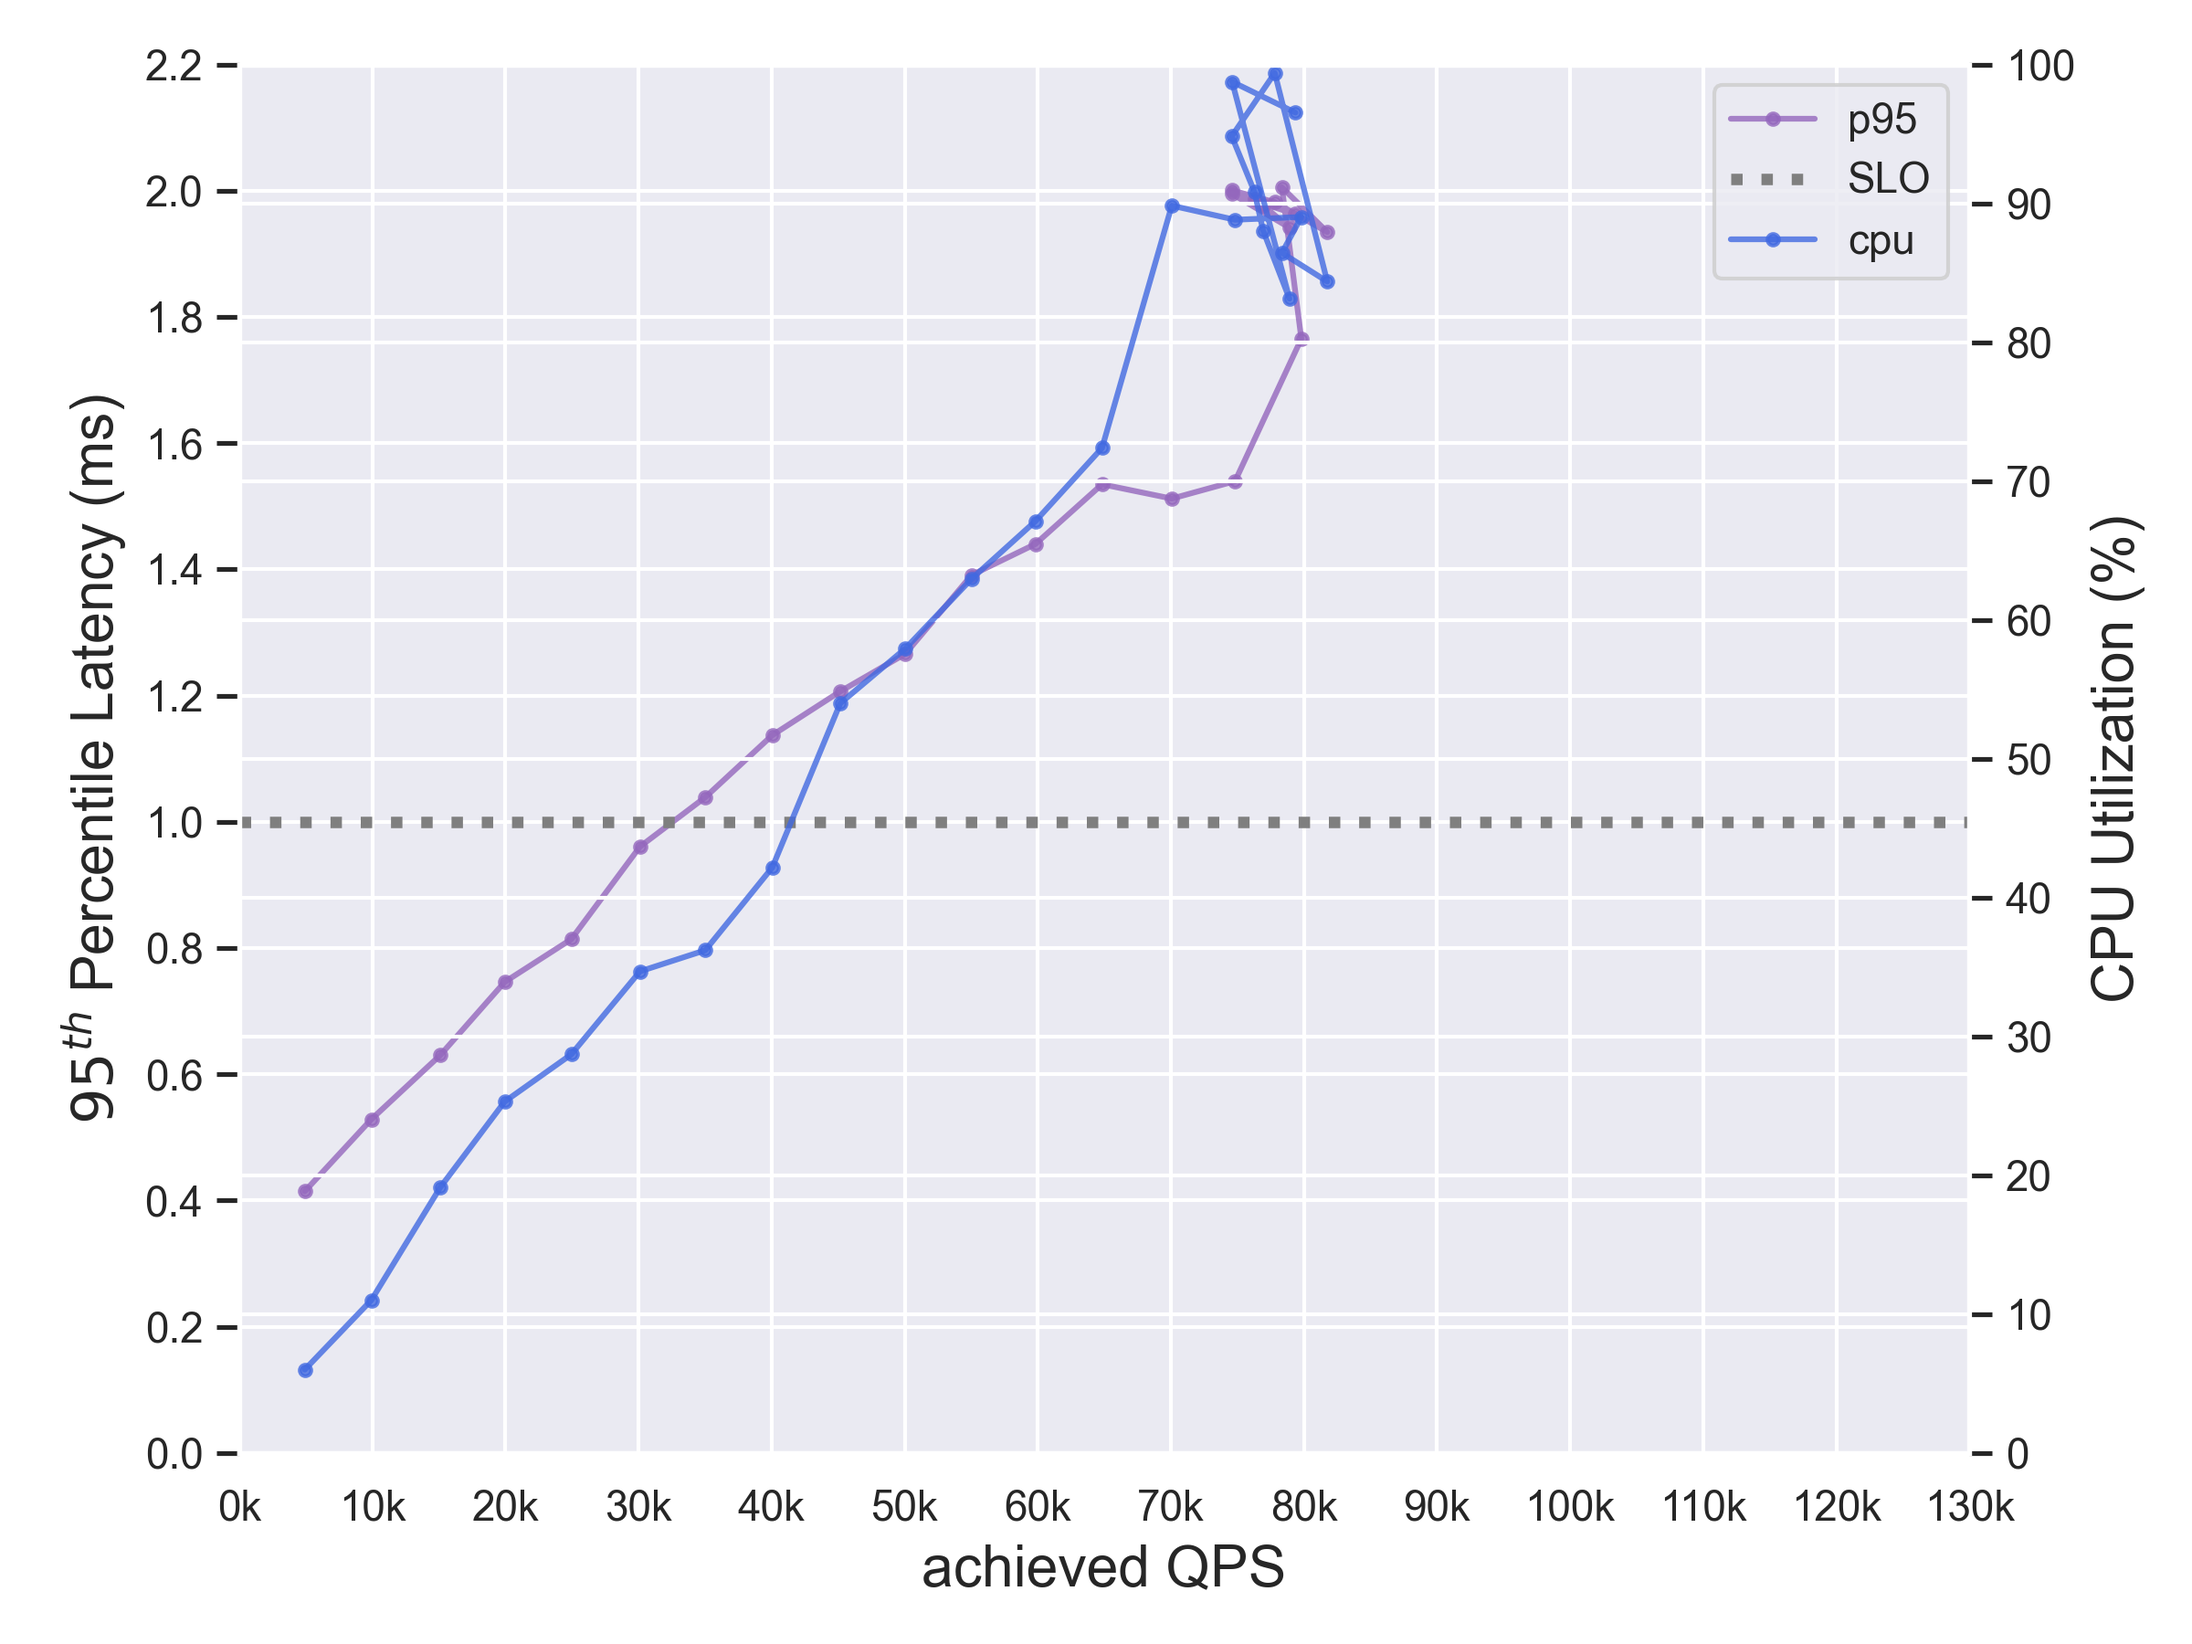
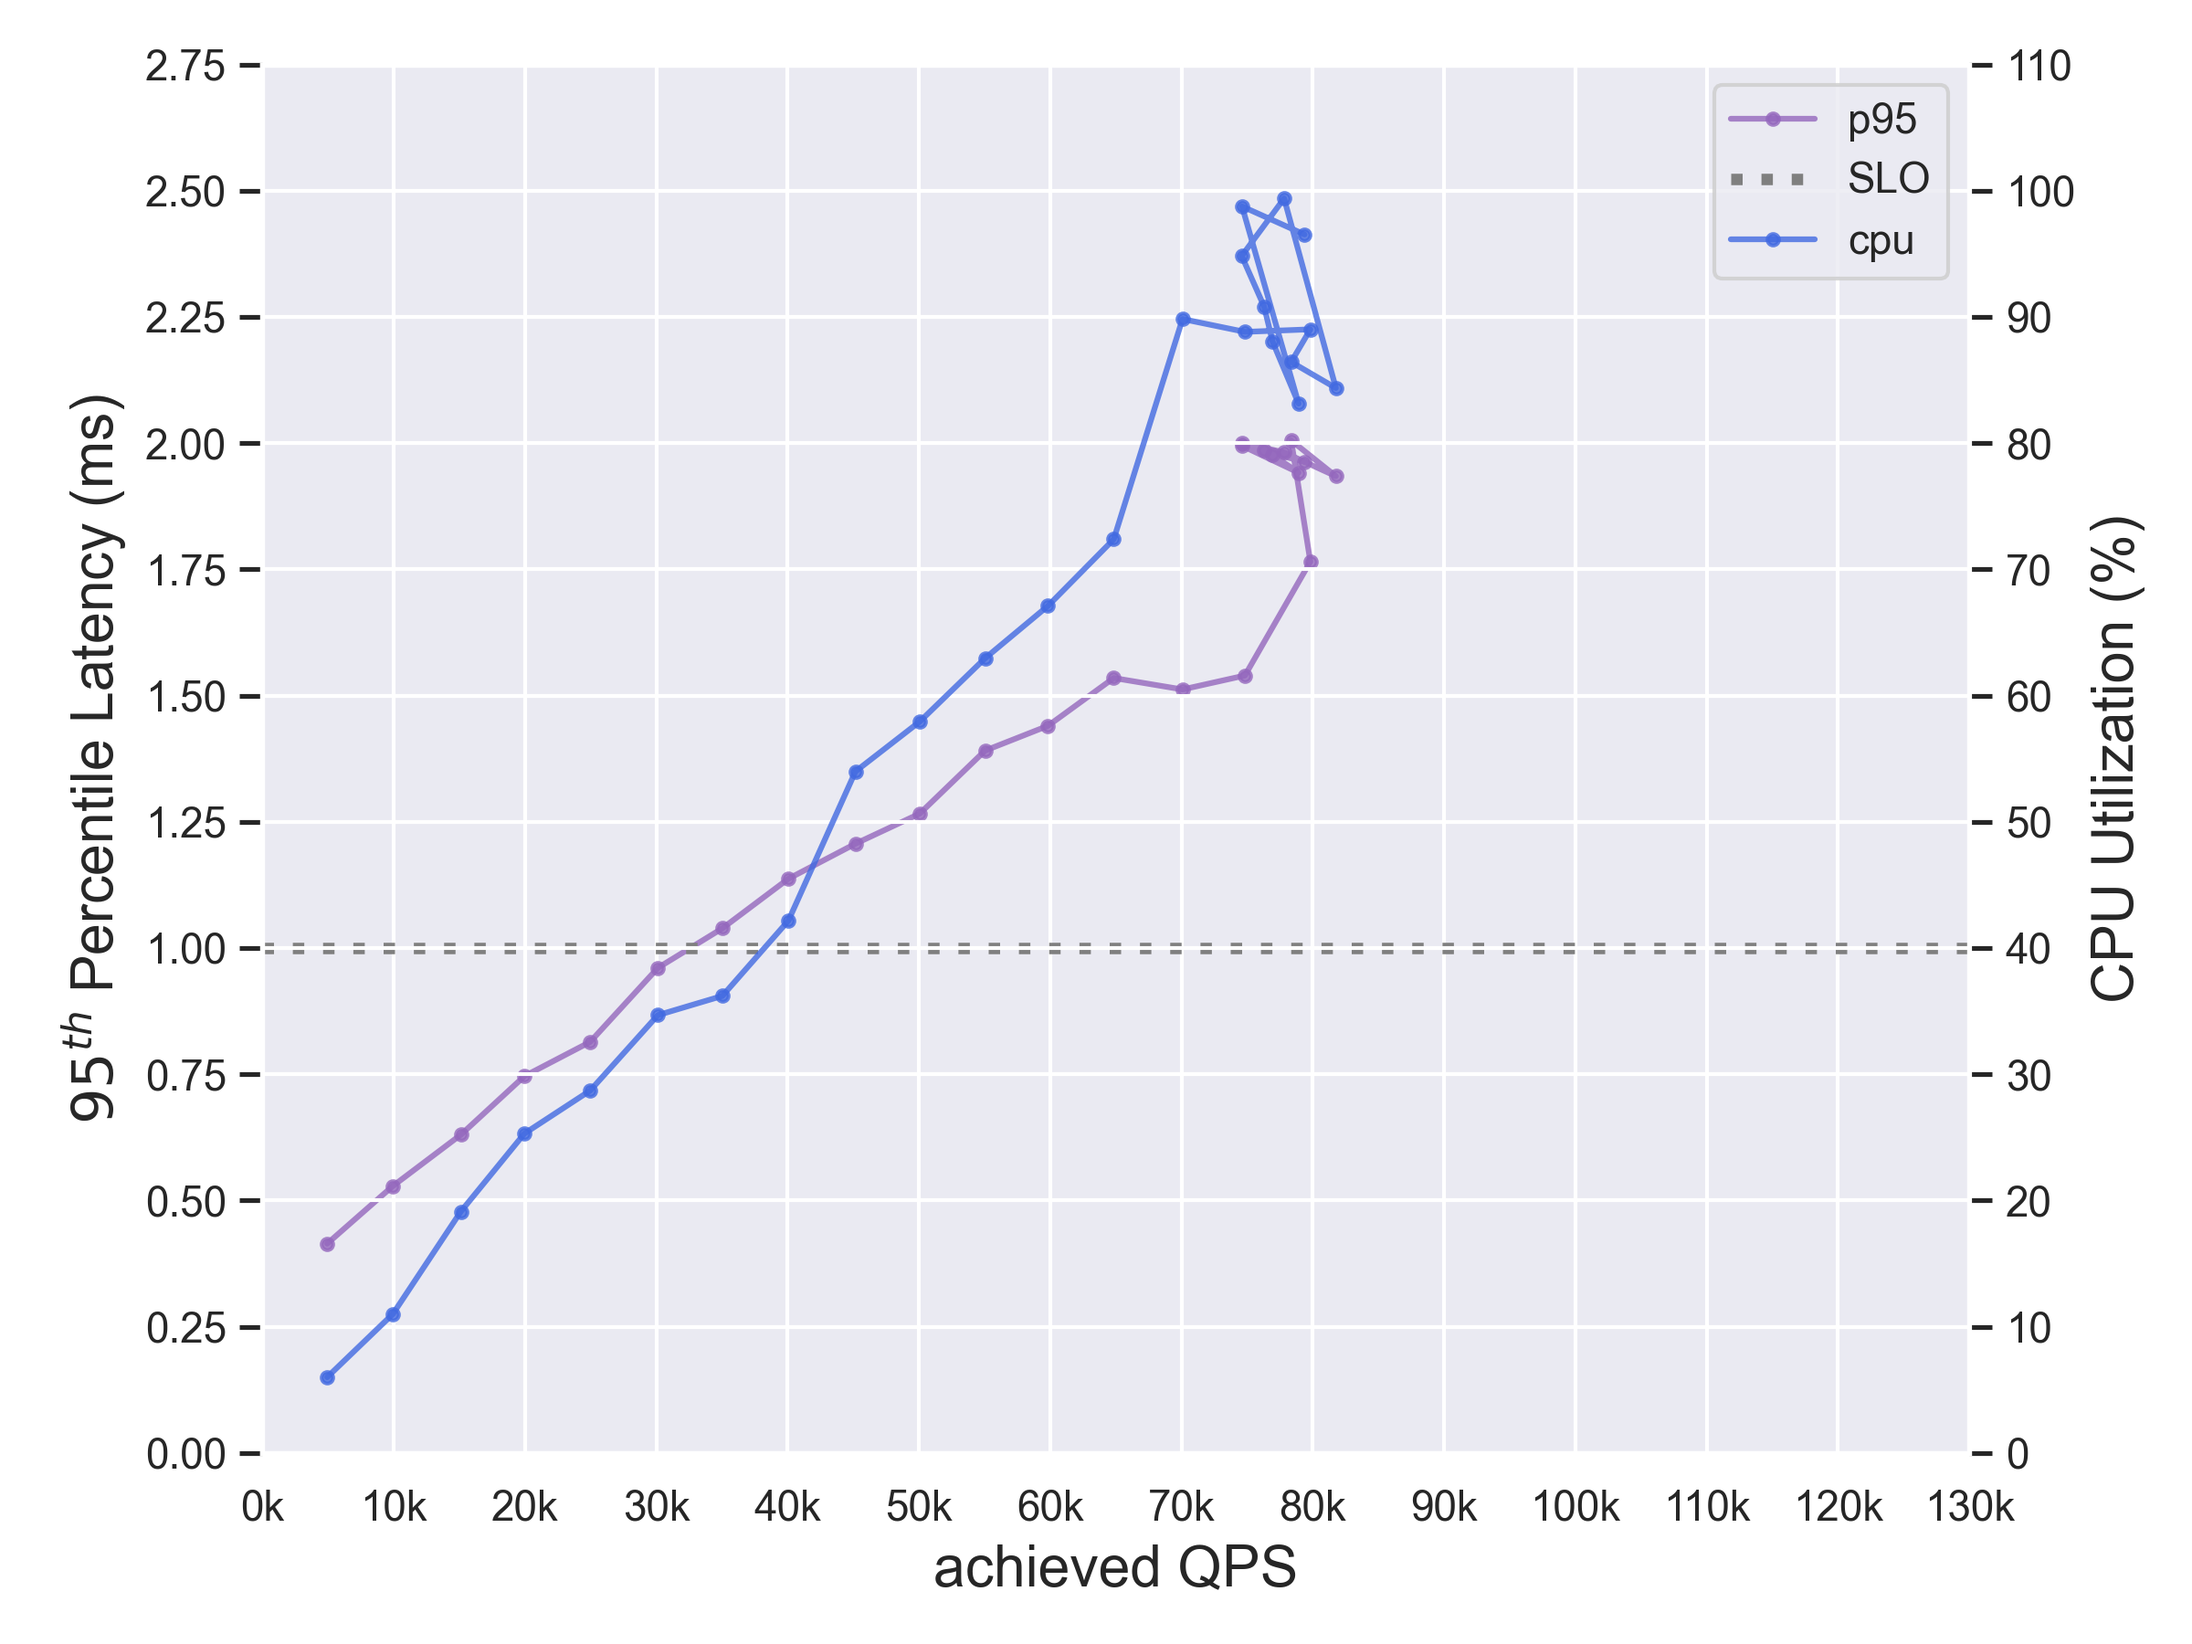
improve plots 4.1

diff --git a/part4/plot/generate_figure_1_d.py b/part4/plot/generate_figure_1_d.py
@@ -26,11 +26,11 @@ def create_figure(meas, id):
     fig_cpu.set_ylabel('CPU Utilization (%)', fontsize=15)
     
     if id==0:
-        fig_95.set_ylim([0, 2.2])
-        fig_95.set_yticks(np.arange(0, 2.4, 0.2))
+        fig_95.set_ylim([0, 2.75])
+        fig_95.set_yticks(np.arange(0, 3.0, 0.25))
 
-        fig_cpu.set_ylim([0, 100])
-        fig_cpu.set_yticks(range(0, 110, 10))
+        fig_cpu.set_ylim([0, 110])
+        fig_cpu.set_yticks(range(0, 120, 10))
     else:
         fig_95.set_ylim([0, 2.0])
         fig_95.set_yticks(np.arange(0, 2.2, 0.2))
